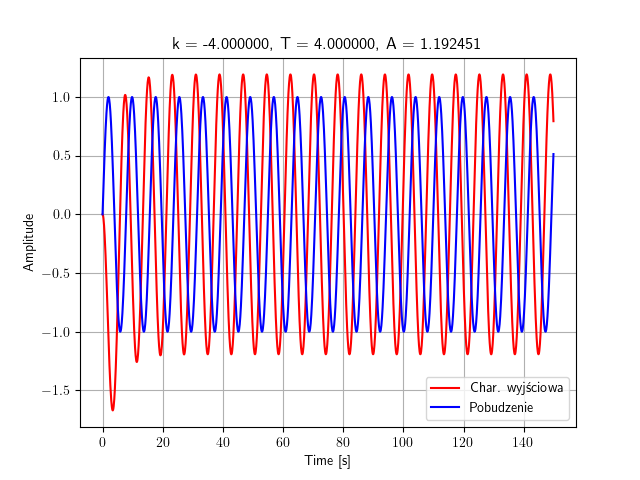
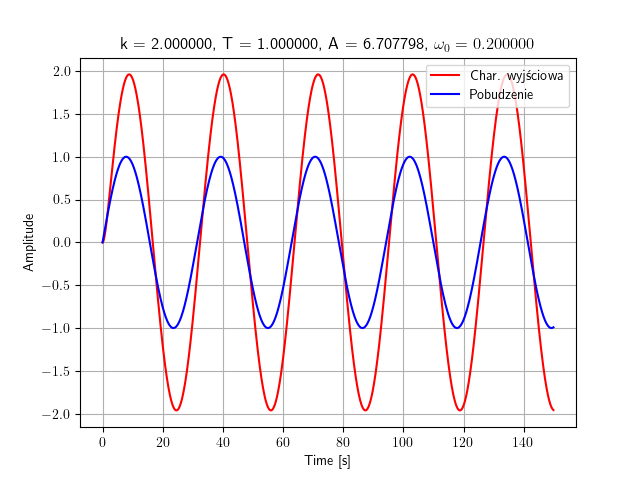
Adjusted lab2

diff --git a/lab2.py b/lab2.py
@@ -5,12 +5,12 @@ from scipy import signal
 # from control import TransferFunction
 plt.rcParams['text.usetex'] = True
 
-k = np.array([15., -1., 2., -4., -2., 9.])
-T = np.array([10., -6., 1., 4., 20., 360.])
+k = np.array([15., 2., -4.])
+T = np.array([10., 1., 4.])
 # delt = a ** 2 - 4*b
 
 K = [signal.TransferFunction(k[i], [T[i], 1.]) for i in range(np.size(k))]
-w0 = 0.8
+w0 = [0.5, 0.2]
 # print(np.size(a))
 # print(T)
 
@@ -20,42 +20,52 @@ x = list()
 A = list()
 w = list()
 time = np.linspace(0., 150., num=1500, endpoint=False)
-u = np.sin(w0 * time)
+u = list()
+u.append(np.sin(w0[0] * time))
+u.append(np.sin(w0[1] * time))
 
 # print(K)
 
 for i in range(len(K)):
-    plt.figure(i)
-    tp, yp, xp = signal.lsim(K[i], T=time, U=u)
-    
-    t.append(tp)
-    y.append(yp)
-    x.append(xp)
-    A.append((yp[1000:].max() - yp[1000:].min()) / 2)
+    for s in range(len(u)):
+        f = 2*i + s
+        plt.figure(f)
+        tp, yp, xp = signal.lsim(K[i], T=time, U=u[s])
 
-    # w.append(abs(z1 - z0) / np.pi)
+        t.append(tp)
+        y.append(yp)
+        x.append(xp)
+        A.append((yp[1000:].max() - yp[1000:].min()) / 2)
 
-    plt.plot(t[i], y[i], 'r', label='Char. wyjściowa')
-    plt.plot(t[i], u, 'b', label='Pobudzenie')
-    plt.xlabel('Time [s]')
-    plt.ylabel('Amplitude')
-    plt.title(r"k = %f, T = %f, A = %f " %(k[i], T[i], A[i]))
-    plt.grid()
-    plt.legend()
-    plt.savefig('lab2_docs/figure%d.png' % i)
+        # w.append(abs(z1 - z0) / np.pi)
 
-P = k[3] / (T[3] * w0 * 1j  + 1) 
+        plt.plot(t[f], y[f], 'r', label='Char. wyjściowa')
+        plt.plot(t[f], u[s], 'b', label='Pobudzenie')
+        plt.xlabel('Time [s]')
+        plt.ylabel('Amplitude')
+        plt.title(r"k = %f, T = %f, A = %f, $\omega_0 = %f$" %(k[i], T[i], A[i], w0[s]))
+        plt.grid()
+        plt.legend()
+        plt.savefig('lab2_docs/figure%d.png' % f)
 
-plt.figure(len(K))
-w, H = signal.freqresp(K[3])
+takenIndex = 2
+P = list()
+P.append(k[takenIndex] / (T[takenIndex] * w0[0] * 1j + 1))
+P.append(k[takenIndex] / (T[takenIndex] * w0[1] * 1j + 1)) 
+
+print(P)
+
+plt.figure(len(K) * 2)
+w, H = signal.freqresp(K[takenIndex])
 plt.plot(H.real, H.imag, "b", label="Charakterystyka")
-plt.plot(P.real, P.imag, "r", marker = "o", markersize=10, label=r"Punkt odp. pulsacji $\omega_0 $")
+plt.plot(P[0].real, P[0].imag, "r", marker = "o", markersize=10, label=r"Punkt odp. pulsacji $\omega_0 = %f$" % w0[0])
+plt.plot(P[1].real, P[1].imag, "g", marker = "o", markersize=10, label=r"Punkt odp. pulsacji $\omega_0 = %f$" % w0[1])
 plt.xlabel('Re')
 plt.ylabel('Im')
 plt.legend()
 plt.grid()
-plt.title(r"char. amplitudowo-fazowa układu nr 4, punkt: $ \omega_0 = %f + %fj $" %(P.real, P.imag))
-plt.savefig('lab2_docs/figure%d.png' % (len(K)))
+plt.title(r"char. amplitudowo-fazowa układu nr 3")
+plt.savefig('lab2_docs/figure%d.png' % (len(K) * 2))
 
 for i in plt.get_fignums():
     plt.show()
